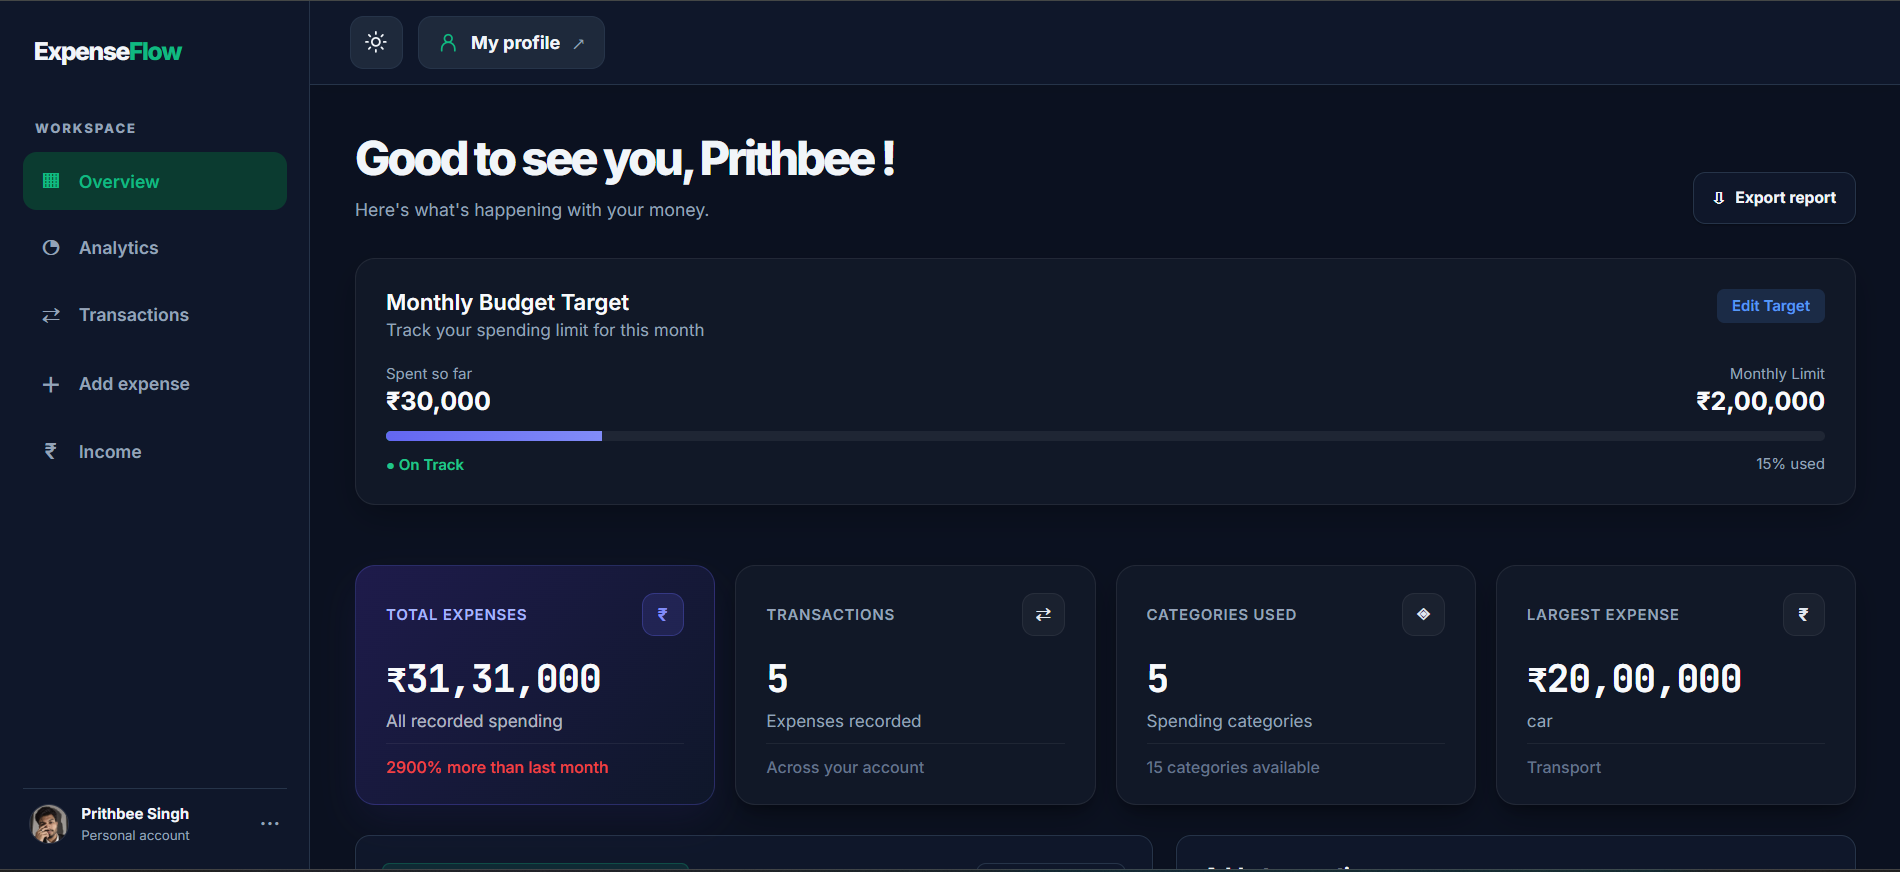
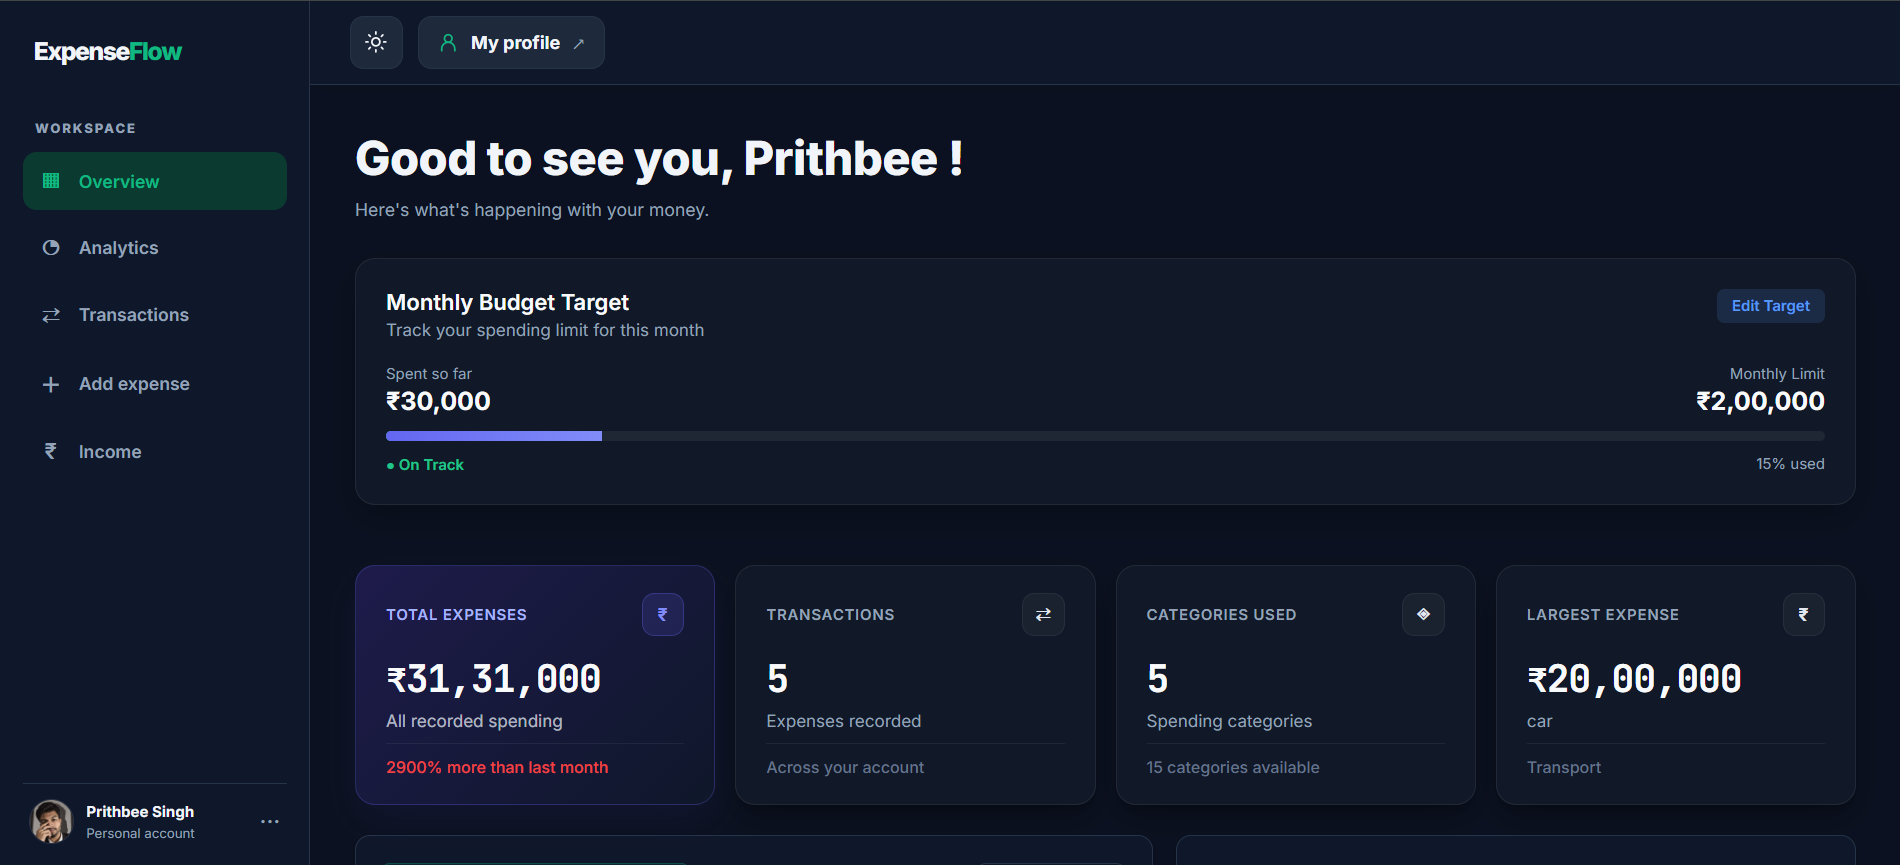
docs: update README and add ExpenseList preview screenshot for portfolio

diff --git a/README.md b/README.md
@@ -1,7 +1,6 @@
 # ExpenseFlow
 
 ![CI Status](https://github.com/singhcodes7/ExpenseFlow/actions/workflows/ci.yml/badge.svg)
-![License: MIT](https://img.shields.io/badge/License-MIT-yellow.svg)
 
 A full-stack personal finance tracker for logging expenses and income, organising them with custom categories, and seeing where your money goes.
 
@@ -31,6 +30,12 @@ A full-stack personal finance tracker for logging expenses and income, organisin
 
 Below is a complete visual walkthrough of the ExpenseFlow application interface across its core modules:
 
+### 📊 Dashboard & Analytics
+* **Dashboard (Dark Mode):** Primary financial overview featuring the slate fintech theme.  
+  ![Dashboard Dark Mode](assets/Dashboarddark.png)
+* **Dashboard (Light Mode):** Clean, high-contrast daytime UI theme.  
+  ![Dashboard Light Mode](assets/Dashboardlightmode.png) 
+
 ### 🔐 Authentication & Access
 * **Login Portal:** Secure user sign-in interface.  
   ![Login Portal](assets/LoginPage.png)
@@ -39,13 +44,9 @@ Below is a complete visual walkthrough of the ExpenseFlow application interface 
 * **Password Recovery:** Account recovery workflow.  
   ![Password Recovery](assets/ForgotpasswordPage.png)
 
-### 📊 Dashboard & Analytics
-* **Dashboard (Dark Mode):** Primary financial overview featuring the slate fintech theme.  
-  ![Dashboard Dark Mode](assets/Dashboarddark.png)
-* **Dashboard (Light Mode):** Clean, high-contrast daytime UI theme.  
-  ![Dashboard Light Mode](assets/Dashboardlightmode.png)
-* **Income Overview:** Detailed breakdown of incoming capital assets.  
-  ![Income Overview](assets/IncomeOverview.png)
+### 💵 Income and Spending
+* **Income Overview:** Detailed breakdown of incoming capital assets. 
+![Income Overview](assets/IncomeOverview.png)
 * **Spending Overview:** Analytics and trends for monthly expenses.  
   ![Spending Overview](assets/SpendingOverview.png)
 
@@ -55,7 +56,7 @@ Below is a complete visual walkthrough of the ExpenseFlow application interface 
 * **Advanced Filters:** Filter expenses and income by date ranges and categories.  
   ![Advanced Filters](assets/ExpensesFilter.png)
 * **Add Income Modal / Form:** Streamlined entry for new financial inflows.  
-  ![Add Income](assets/ux%20assets/AddIncome.png)
+  ![Add Income](assets/AddIncome.png)
 
 ### 👤 Profile & Settings
 * **Profile Management (Dark Mode):** Inline name editing and avatar preferences.  
@@ -163,7 +164,3 @@ Profile pictures are stored on Cloudinary. Create a free account and set `CLOUDI
 - Refresh tokens are rotated on use and can be revoked.
 - State-changing requests must come from the configured frontend origin.
 - Login, registration and password-reset endpoints are rate limited.
-
-## License
-
-Add a license of your choice (for example MIT) as a `LICENSE` file.
